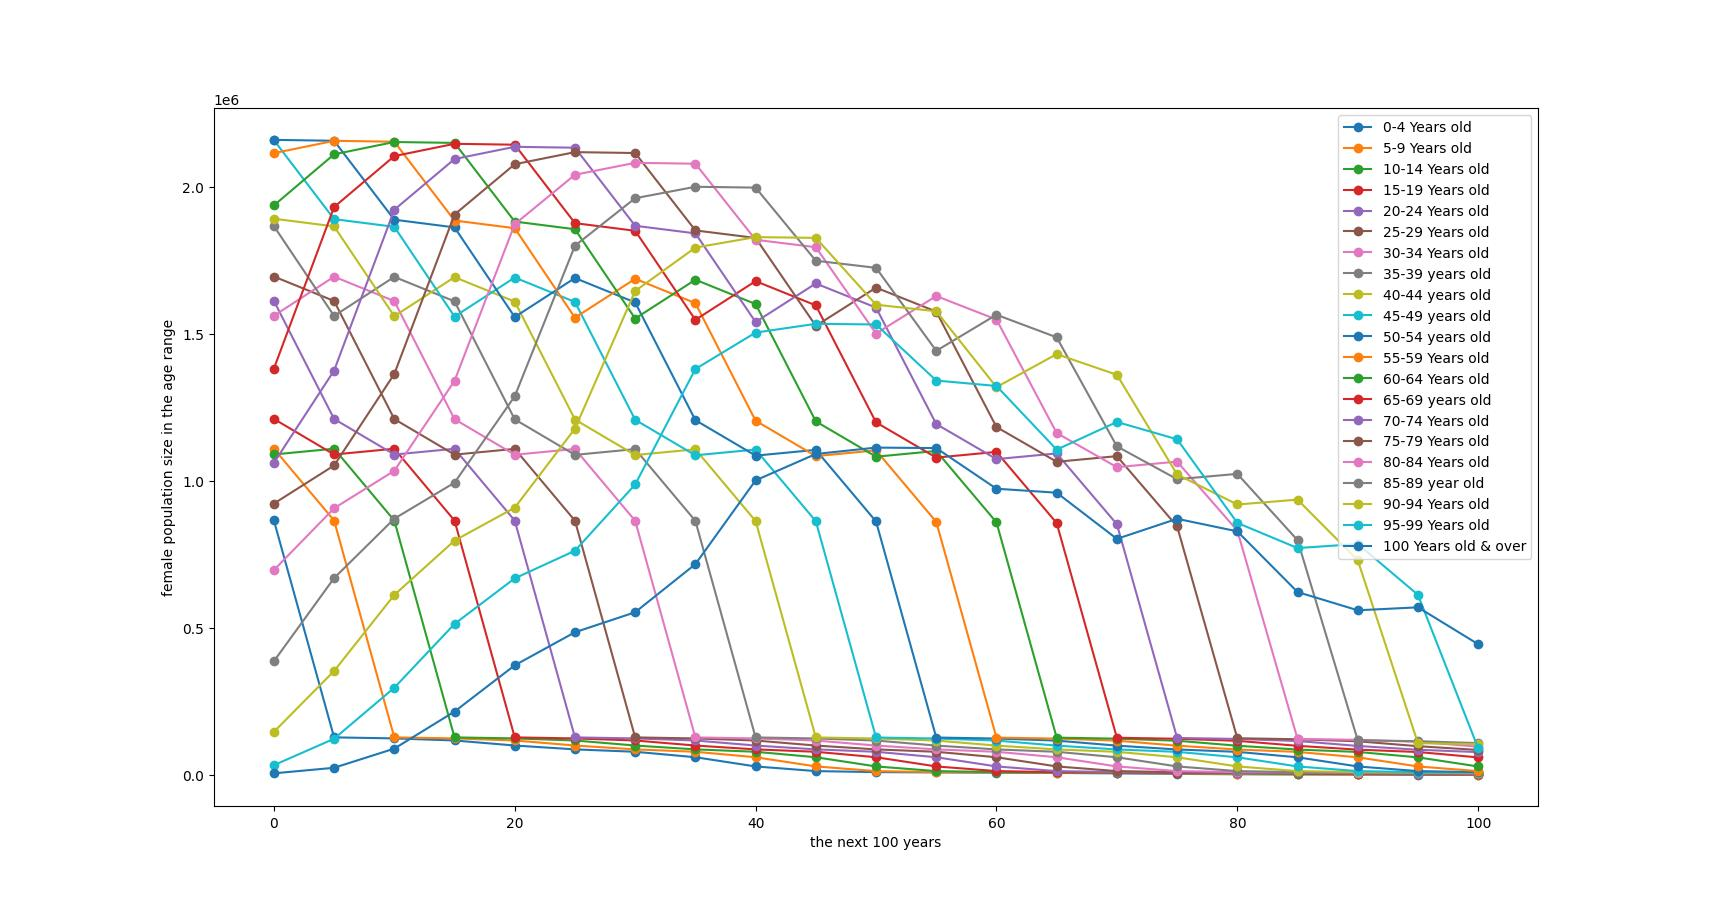
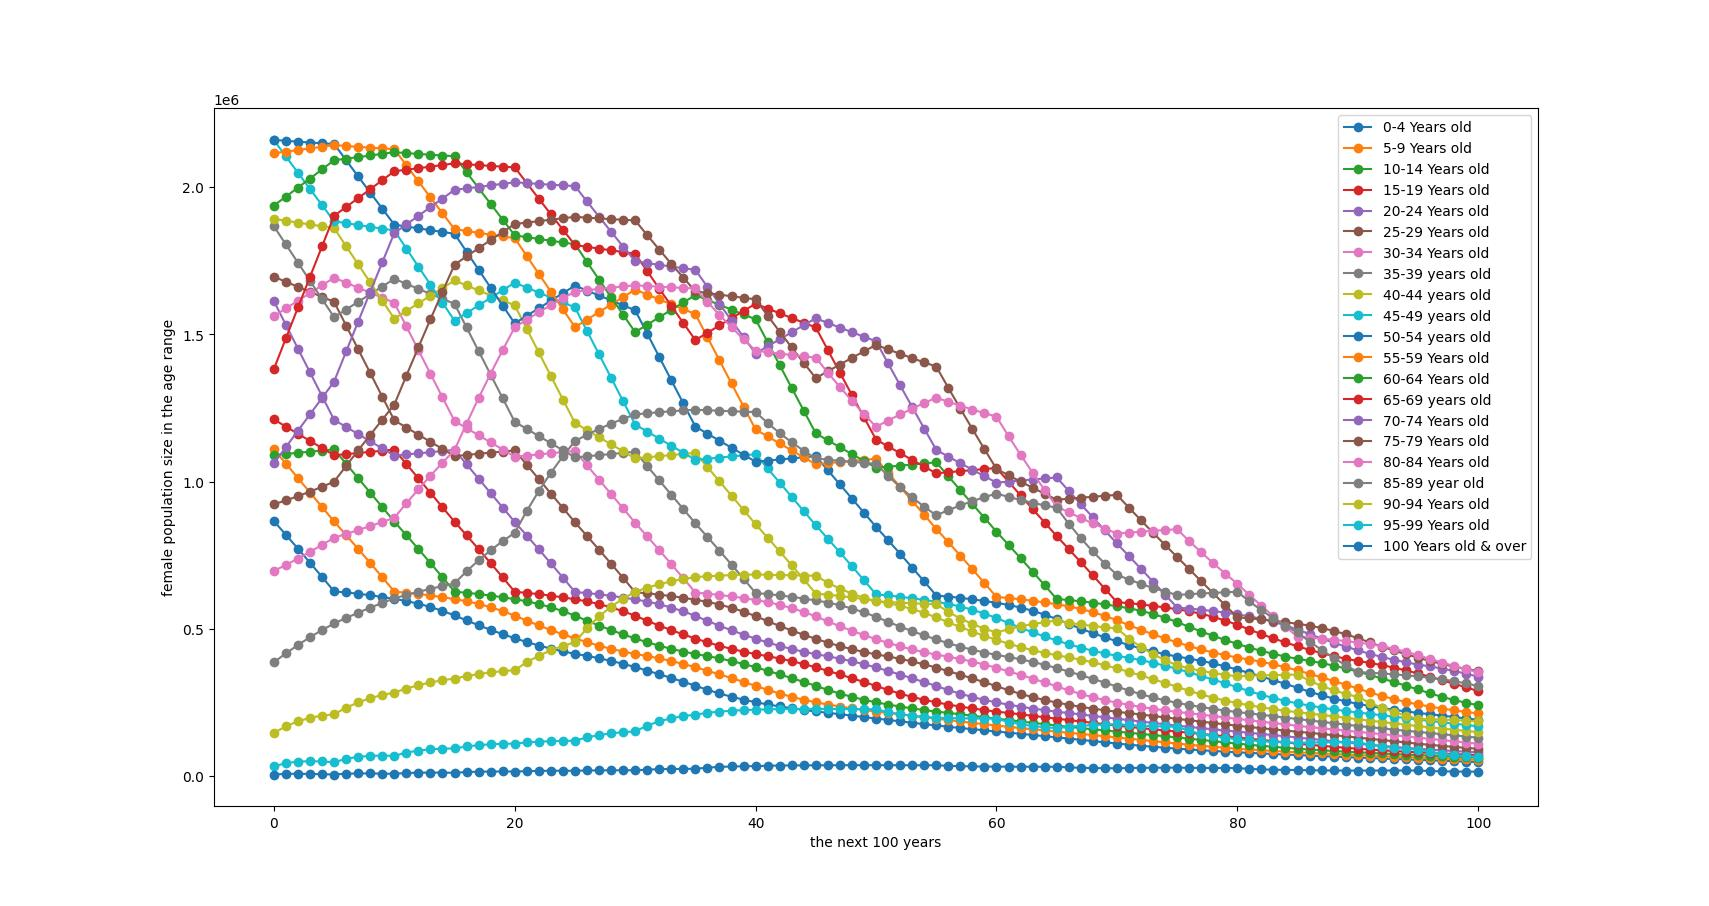
final arrange
每五年的人口要被细分

Changed region(s): [[0.1551, 0.1545, 0.8683, 0.8653]]

diff --git a/hw3_119010162.py b/hw3_119010162.py
@@ -9,53 +9,72 @@ dfName = pd.read_excel(path,usecols=[0],names = ["name"],skiprows = 1)
 ageName = np.array(dfName["name"])
 
 femaleSize = np.array(df["population"])
+femaleSize5 = np.array(df["population"])
+femaleSize5 = femaleSize5//5
+#print(femaleSize5)
+femaleSize100 = np.array([femaleSize5[0],femaleSize5[0],femaleSize5[0],femaleSize5[0],femaleSize5[0]])
+for j in range(1,len(femaleSize)):
+    femaleSize100 = np.append(femaleSize100, [femaleSize5[j],femaleSize5[j],femaleSize5[j],femaleSize5[j],femaleSize5[j]])
+#print(femaleSize100)
 births = np.array(df["births"])
 deaths = np.array(df["deaths"])
-
-
 
 birthsRate = births/femaleSize
 deathsRate = deaths/femaleSize
 
-hundredyears = np.zeros((21,len(femaleSize)))
+birthsRate100 = np.array([birthsRate[0],birthsRate[0],birthsRate[0],birthsRate[0],birthsRate[0]])
+for j in range(1,len(birthsRate)):
+    birthsRate100 = np.append(birthsRate100, [birthsRate[j],birthsRate[j],birthsRate[j],birthsRate[j],birthsRate[j]])
 
-hundredyears[0] = femaleSize
+deathsRate100 = np.array([deathsRate[0],deathsRate[0],deathsRate[0],deathsRate[0],deathsRate[0]])
+for j in range(1,len(deathsRate)):
+    deathsRate100 = np.append(deathsRate100, [deathsRate[j],deathsRate[j],deathsRate[j],deathsRate[j],deathsRate[j]])
+
+hundredyears = np.zeros((101,len(femaleSize100)))
+
+hundredyears[0] = femaleSize100
 
 temp = 0
-for n in range(1,21):
-    for k in range(1,len(femaleSize)):
-        temp += hundredyears[n-1][k]*birthsRate[k]
-    hundredyears[n][0] = temp
+for year in range(1,101):
+    for age in range(1,len(femaleSize100)):
+        temp += hundredyears[year-1][age]*birthsRate100[age]
+    hundredyears[year][0] = temp
     temp = 0
-    for i in range(1,len(femaleSize)):
-        hundredyears[n][i] = hundredyears[n-1][i-1]*(1-deathsRate[i-1])
+    for age in range(1,len(femaleSize100)):
+        hundredyears[year][age] = hundredyears[year-1][age-1]*(1-deathsRate100[age-1])
+
+hundredyears20 = np.zeros((101,len(femaleSize)))
+for year in range(0,101):
+    for age in range(0,len(femaleSize)):
+        hundredyears20[year][age] = hundredyears[year][age*5]+hundredyears[year][age*5+1]+hundredyears[year][age*5+2]+hundredyears[year][age*5+3]+hundredyears[year][age*5+4]
 
 
-years = [i for i in range(0,101,5)]
+years = [i for i in range(0,101)]
 
 fig1=plt.figure(figsize=(21,21))
 for col in range(0,21):
-    plt.plot(years,hundredyears[:,col],marker='o',label=ageName[col])
+    plt.plot(years,hundredyears20[:,col],marker='o',label=ageName[col])
 plt.xlabel('the next 100 years')
 plt.ylabel('female population size in the age range')
 plt.legend()
 plt.show()
-plt.title('age structure of South Korea in the next 100 years')
+#plt.title('age structure of South Korea in the next 100 years')
 fig1.savefig("age_structure.jpg")
 
 
-sum = [i for i in range(0,21)]
+sum = [i for i in range(0,101)]
 temp = 0
-for n in range(0,21):
+for n in range(0,101):
     for k in range(0,21):
-        temp = temp + hundredyears[n][k]
+        temp = temp + hundredyears20[n][k]
     sum[n] = temp
     temp = 0
+print(sum)
 fig2=plt.figure(figsize=(21,21))
 plt.plot(years,sum,marker='o')
 plt.xlabel('the next 100 years')
 plt.ylabel('female population size in a year')
 plt.legend()
 plt.show()
-plt.title('female population size of South Korea in the next 100 years')
+#plt.title('female population size of South Korea in the next 100 years')
 fig2.savefig("pop_size.jpg")
